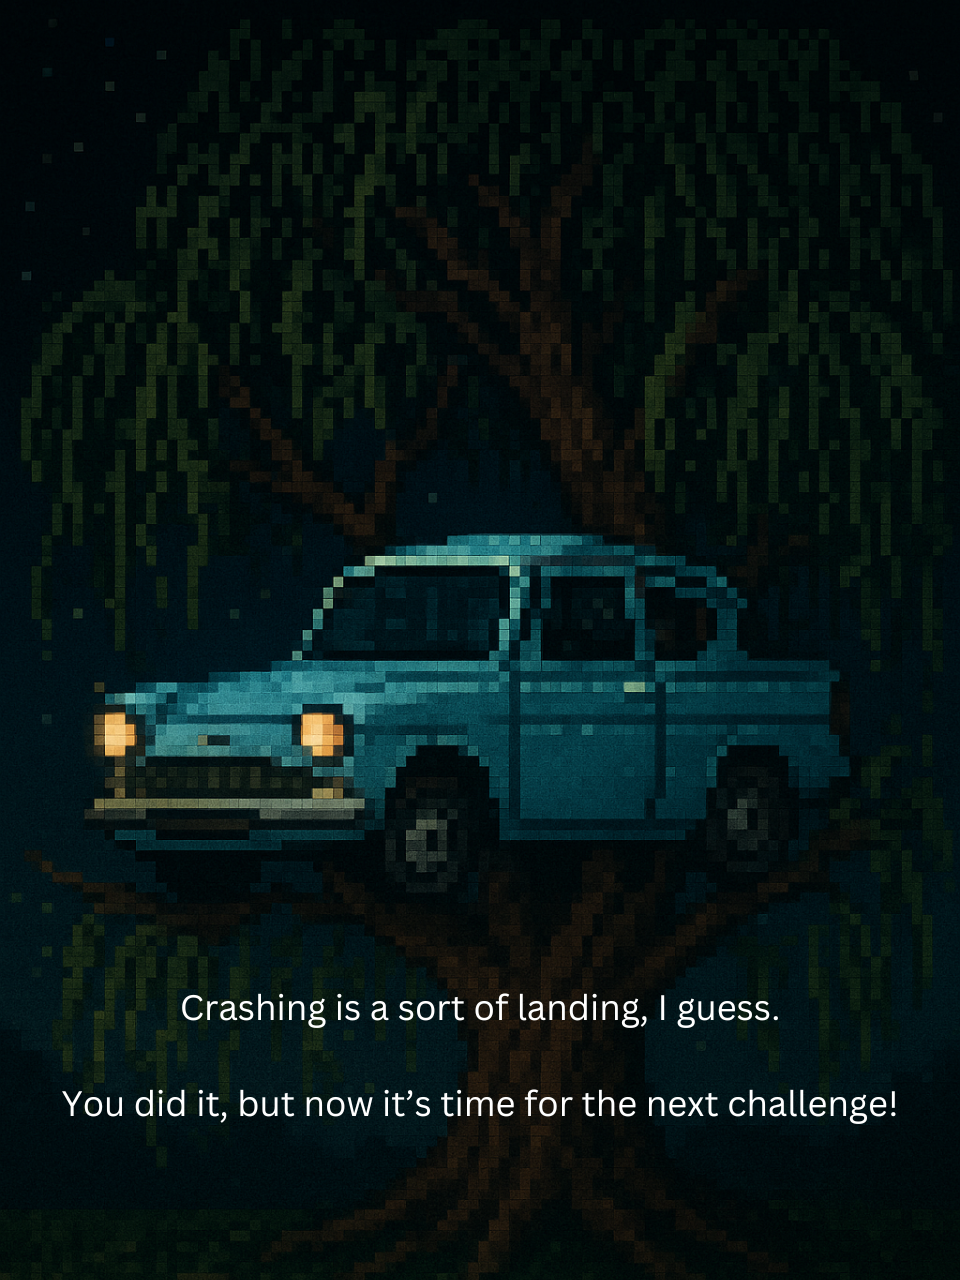
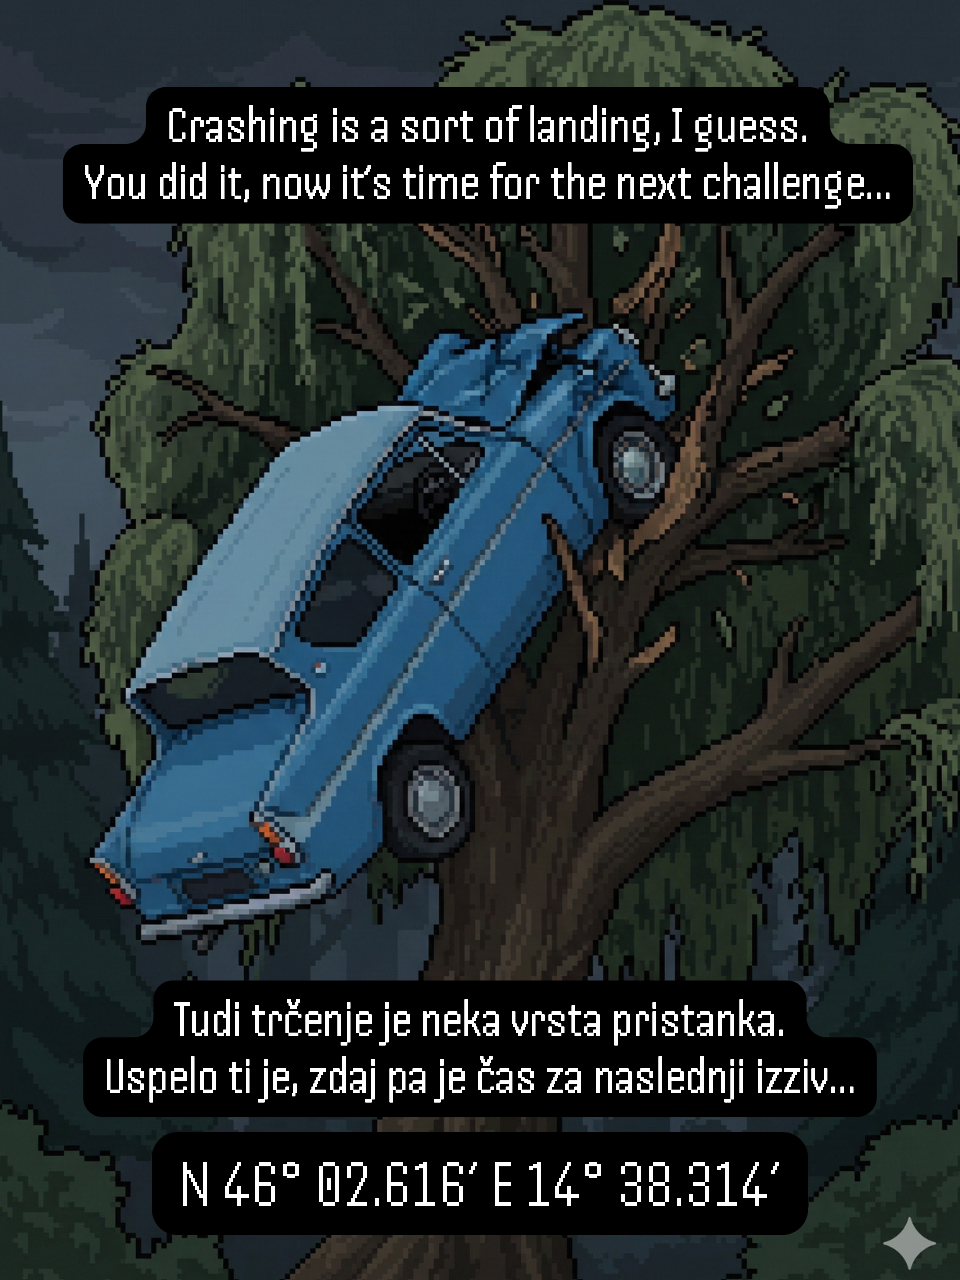
Start screen updates

diff --git a/index.html b/index.html
@@ -3,7 +3,7 @@
 <head>
 <meta charset="UTF-8">
 <meta name="viewport" content="width=device-width, initial-scale=1, maximum-scale=1, user-scalable=no">
-<title>Flappy Car</title>
+<title>Flying Car Game - Hogwarts Flight</title>
 <style>
   body {
     margin: 0;
@@ -36,9 +36,12 @@
 <script>
 const canvas = document.getElementById("gameCanvas");
 const ctx = canvas.getContext("2d");
-const happyFace = new Image();
-happyFace.src = "happyFace.png"; // Make sure this is high-res (2× or 3×)
 
+const happyFace = new Image();
+happyFace.src = "happyFace.png";
+
+const startImg = new Image();
+startImg.src = "startScreen.png"; // NEW
 
 // --- Images ---
 const carImg = new Image();
@@ -72,7 +75,7 @@ for (let i = 0; i < 80; i++) {
   });
 }
 
-// --- Obstacles track ---
+// --- Track ---
 const baseGapY = 250;
 const horizontalSpacing = 300;
 const offsets = [];
@@ -113,7 +116,6 @@ function buildBackground() {
     bgCtx.fill();
   });
 
-  // Clouds
   bgCtx.fillStyle="white";
   for(let i=0;i<20;i++){
     const x = Math.random()*bgWidth;
@@ -206,7 +208,6 @@ function update(timestamp){
   drawObstacles();
   drawCar();
 
-  // Obstacle counter
   const obstaclesLeft = obstacles.filter(o => o.x > -60*scaleFactor).length;
   ctx.font = `bold ${40*scaleFactor}px sans-serif`;
   ctx.textAlign="center";
@@ -217,7 +218,6 @@ function update(timestamp){
   ctx.fillStyle="black";
   ctx.fillText(obstaclesLeft,240,80);
 
-  // Collisions
   const obsW = 60*scaleFactor;
   const obsGap = 100*scaleFactor;
   for(const o of obstacles){
@@ -230,13 +230,7 @@ function update(timestamp){
   requestAnimationFrame(update);
 }
 
-// --- Reset & End game ---
-const startText = {
-  title:"🧙 HP 3: The Chamber 🪄 V10",
-  subtitle:"GCBF1BN, by Enra13 & Ammy Holmes",
-  description:"Press SPACE or tap to start your flight!"
-};
-
+// --- WIN image drawing ---
 function drawWinImage() {
   const dpr = window.devicePixelRatio || 1;
   const canvasWidth = canvas.width / dpr;
@@ -263,6 +257,34 @@ function drawWinImage() {
 }
 
 
+// --- NEW: Draw START IMAGE ---
+function drawStartImage() {
+  const dpr = window.devicePixelRatio || 1;
+  const canvasWidth = canvas.width / dpr;
+  const canvasHeight = canvas.height / dpr;
+
+  const imgAspect = startImg.width / startImg.height;
+  const canvasAspect = canvasWidth / canvasHeight;
+
+  let drawWidth, drawHeight, offsetX, offsetY;
+
+  if (imgAspect > canvasAspect) {
+    drawWidth = canvasWidth;
+    drawHeight = canvasWidth / imgAspect;
+    offsetX = 0;
+    offsetY = (canvasHeight - drawHeight)/2;
+  } else {
+    drawHeight = canvasHeight;
+    drawWidth = canvasHeight * imgAspect;
+    offsetX = (canvasWidth - drawWidth)/2;
+    offsetY = 0;
+  }
+
+  ctx.drawImage(startImg, offsetX, offsetY, drawWidth, drawHeight);
+}
+
+
+// --- Reset ---
 function resetGame() {
   carY = 320;
   velocity = 0;
@@ -273,99 +295,51 @@ function resetGame() {
   distance = 0;
   lastTime = 0;
   obstacles = track.map(o => ({ ...o }));
+  winState = false;
   document.getElementById("clue").style.display = "none";
 
-  // --- Dark dusk gradient background ---
-  const gradient = ctx.createLinearGradient(0, 0, 0, canvas.height);
-  gradient.addColorStop(0, "#0b1f3f");
-  gradient.addColorStop(0.5, "#1a3a6d");
-  gradient.addColorStop(1, "#5c3b1e");
-  ctx.fillStyle = gradient;
-  ctx.fillRect(0, 0, canvas.width, canvas.height);
-
-  // --- Text ---
-  ctx.fillStyle = "white";
-  ctx.textAlign = "center";
-  ctx.textBaseline = "middle";
-
-  const logicalWidth = 480;
-  const logicalHeight = 640;
-  const dpr = window.devicePixelRatio || 1;
-  const scale = Math.min(
-    (canvas.width / dpr) / logicalWidth,
-    (canvas.height / dpr) / logicalHeight
-  );
-
-  const centerX = logicalWidth / 2;
-  const startY = 220; // starting Y for title block
-
-  // Title
-  ctx.font = `bold ${32 * scale}px sans-serif`;
-  ctx.fillText("🧙 HP 3: The Chamber 🪄 V10", centerX, startY * scale);
-
-  // Code below title (same size)
-  ctx.fillText("GCBF1BN", centerX, (startY + 40) * scale);
-
-  // Author (smaller)
-  ctx.font = `${20 * scale}px sans-serif`;
-  ctx.fillText("by Enra13 & Ammy Holmes", centerX, (startY + 80) * scale);
-
-  // Description (smaller again)
-  ctx.font = `${16 * scale}px sans-serif`;
-  ctx.fillText("Press SPACE or tap to start your flight!", centerX, (startY + 120) * scale);
+  if (startImg.complete) drawStartImage();
+  else startImg.onload = drawStartImage;
 }
 
 
-
-
-
+// --- End game ---
 function endGame(win) {
   gameOver = true;
   winState = win;
 
-  // Dim background
-  ctx.fillStyle = "rgba(0,0,0,0.6)";
-  ctx.fillRect(0, 0, canvas.width, canvas.height);
+  ctx.fillStyle="rgba(0,0,0,0.6)";
+  ctx.fillRect(0,0,canvas.width,canvas.height);
 
   if (win) {
-    // Draw happyFace and keep it displayed
-    if (happyFace.complete) {
-      drawWinImage();
-    } else {
-      happyFace.onload = drawWinImage;
-    }
-
-    // Don't allow restart, clue is in the image itself
-    document.getElementById("clue").style.display = "none"; 
-  } else {
-    // Losing text
-    ctx.fillStyle = "white";
-    ctx.textAlign = "center";
-    ctx.textBaseline = "middle";
-    ctx.font = `bold ${28 * scaleFactor}px sans-serif`;
-    ctx.fillText("💥 Curses! Foiled again", 240, 300);
-    ctx.font = `${20 * scaleFactor}px sans-serif`;
-    ctx.fillText("Press R or tap to restart", 240, 340);
+    if (happyFace.complete) drawWinImage();
+    else happyFace.onload = drawWinImage;
+    return;
   }
+
+  ctx.fillStyle="white";
+  ctx.textAlign="center";
+  ctx.textBaseline="middle";
+  ctx.font=`bold ${28*scaleFactor}px sans-serif`;
+  ctx.fillText("💥 Curses! Foiled again",240,300);
+  ctx.font=`${20*scaleFactor}px sans-serif`;
+  ctx.fillText("Press R or tap to restart",240,340);
 }
 
 
 // --- Controls ---
 document.addEventListener("keydown", e => {
-  if (e.code === "Space" || e.code === "ArrowUp") {
-    if (!started) {
-      started = true;
-      requestAnimationFrame(update);
-    } else if (!gameOver) {
-      velocity = jump;
-    }
+  if (!started && (e.code==="Space"||e.code==="ArrowUp")) {
+    started = true;
+    requestAnimationFrame(update);
+    return;
   }
-  if (e.code === "KeyR" && gameOver && !winState) {
-    resetGame();
+  if (!gameOver && (e.code==="Space"||e.code==="ArrowUp")) {
+    velocity = jump;
   }
+  if (gameOver && !winState && e.code==="KeyR") resetGame();
 });
 
-// --- Touch input ---
 document.addEventListener("touchstart", e => {
   e.preventDefault();
   if (!started) {
@@ -404,5 +378,6 @@ carImg.onload = ()=>{
   resizeCanvas();
 };
 </script>
+
 </body>
 </html>
